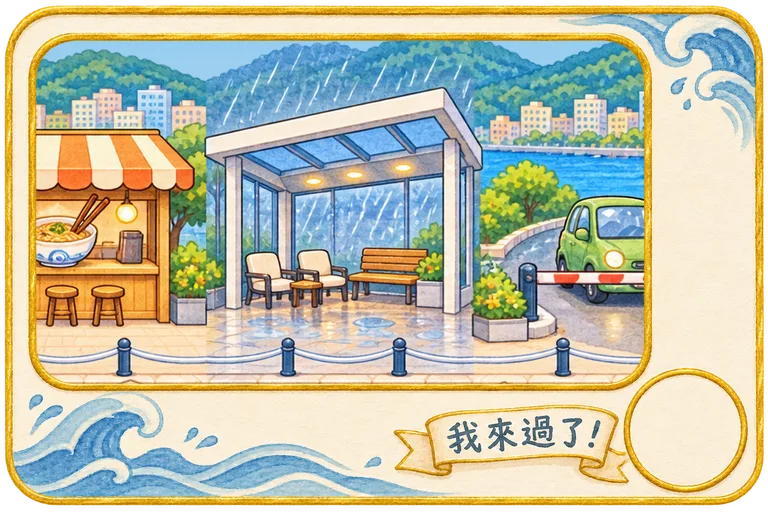
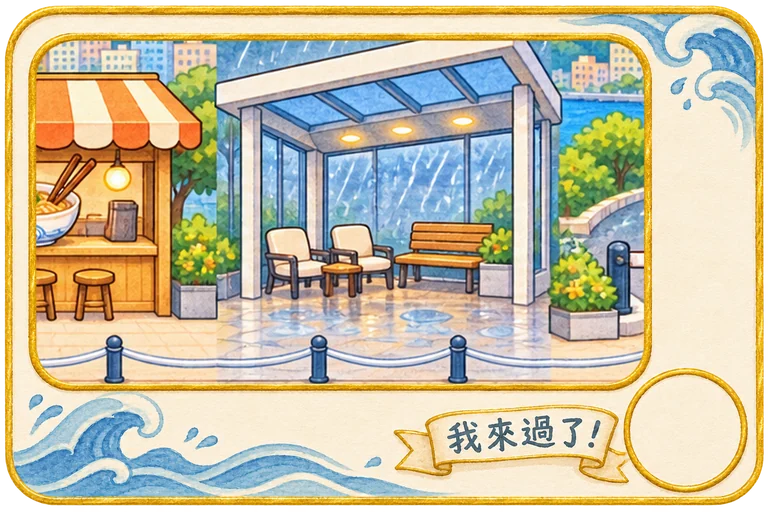
D364：現場版明信片逐站取景（站 2 以郵輪為主、不切半個小鳶／鯨鯊，站 1、4 也修掉邊上半隻朋友）；結果卡拿掉上方大章，明信片＋圈內章當唯一主視覺，章升級時圈內章也落一次（GPT 1252 短覆，stamp v2.7）
Claude-Session: https://claude.ai/code/session_011Y1JW5CcXbK48qR36wGPWu

diff --git a/stamp/index.html b/stamp/index.html
@@ -221,13 +221,15 @@ summary{font-weight:700;font-size:14px;cursor:pointer}
 .pano.all .pc{background:linear-gradient(90deg,#E8A33A,#C9473A);color:#fff}
 .sheet .panoBig{width:100%;aspect-ratio:3/1;display:block;margin:4px 0 10px;border-radius:8px;background:transparent}
 /* D363：現場版明信片（GPT 0200 明信片框 v2＋全景該站那段；右下圓圈蓋上這站的章） */
-.pcOn{position:relative;width:100%;max-width:340px;aspect-ratio:3/2;margin:6px auto 2px;transform:rotate(-2deg);filter:drop-shadow(0 6px 12px rgba(0,0,0,.22))}
+.pcOn{position:relative;width:100%;max-width:360px;aspect-ratio:3/2;margin:6px auto 2px;transform:rotate(-2deg);filter:drop-shadow(0 6px 12px rgba(0,0,0,.22))}
 .pcOn>img{width:100%;height:100%;display:block}
 .pcOn .st{position:absolute;left:82.7%;top:74.1%;width:13%;aspect-ratio:1}
 .pcOn.fly{animation:pcIn .6s .35s cubic-bezier(.3,1.4,.6,1) both}
 .pcOn.fly .st .stampv{animation:pslam .45s 1s cubic-bezier(.3,1.6,.6,1) both}
+/* D364（GPT 1252②）：結果卡拿掉上方大章，明信片＋圈內章當唯一主視覺；章升級時圈內章也落一次 */
+.pcOn.slam .st .stampv{animation:pslam .45s .2s cubic-bezier(.3,1.6,.6,1) both}
 @keyframes pcIn{from{opacity:0;transform:translateY(24px) rotate(4deg) scale(.9)}to{opacity:1;transform:rotate(-2deg)}}
-@media (prefers-reduced-motion:reduce){.pcOn.fly,.pcOn.fly .st .stampv{animation:none}}
+@media (prefers-reduced-motion:reduce){.pcOn.fly,.pcOn.fly .st .stampv,.pcOn.slam .st .stampv{animation:none}}
 .pcCap{margin:2px 0 6px;font-size:13px;color:#7A6A55;text-align:center}
 /* v0.18（C-127）：護照下面多一條「館內的港口朋友」，連到港口朋友頁 */
 .nextTip{margin:2px 0 0;padding:8px 12px;border-radius:12px;background:#EAF5FA;border:2px dashed #3F8FB8;font-size:14px;color:#1D4E66;text-align:center}.nextTip b{color:#1D6A88}
@@ -484,7 +486,7 @@ const SND_ICON = (() => {
 /* BGM-END */
 </script>
 <script>
-const CFG = { version: '2.6', showRec: false, key: 'kiteStamp1', rare: { gold: 0.1, rainbow: 0.02 }, nightFrom: 18, nightTo: 22 };      // v0.12：夜間 18:00–22:00（Dari 10/13 16:58，22:00 後閉店）；稀有機率仍是建議
+const CFG = { version: '2.7', showRec: false, key: 'kiteStamp1', rare: { gold: 0.1, rainbow: 0.02 }, nightFrom: 18, nightTo: 22 };      // v0.12：夜間 18:00–22:00（Dari 10/13 16:58，22:00 後閉店）；稀有機率仍是建議
 const FRAMES = [[53.3333, 40.4444], [25.0463, 46.1481], [18.9352, 75.4815], [44.4907, 86.7407], [75.9722, 77.4815], [80.5093, 56.037]], FRAME_R = 10.37;      // v0.8：G-50 港區小地圖六圈中心（%）；章容器 224px＝寬 20.74%（ChatGPT 地圖位置 JSON）
 const ROUTE = [[1, 2, [[[462.8, 559.4], [449.0, 561.0], [429.0, 568.0], [410.0, 578.0], [378.3, 588.2]]]], [2, 3, [[[330.7, 717.1], [339.0, 730.0], [337.8, 734.0]], [[294.0, 784.0], [285.0, 790.0], [301.0, 820.0], [313.0, 859.0], [313.0, 902.0], [299.0, 934.0], [287.3, 944.5]]]], [3, 4, [[[290.9, 1089.4], [315.0, 1109.0], [339.0, 1130.0], [360.0, 1145.0], [372.6, 1147.7]]]], [4, 5, [[[590.5, 1181.6], [615.0, 1184.0], [638.0, 1178.0], [662.0, 1171.0], [688.0, 1157.0], [709.0, 1138.0], [736.5, 1115.3]]]], [5, 6, [[[750.1, 963.3], [721.0, 929.0], [730.0, 903.0], [740.0, 879.0], [752.0, 857.0], [786.2, 827.8]]]], [6, 1, [[[797.0, 674.6], [784.0, 660.0], [760.0, 636.0], [742.0, 613.0], [718.0, 591.0], [700.0, 579.0], [686.0, 575.3]]]]];      // 每段 [起站, 終站, 可見路段（原圖像素）]；稱號帶的斷口不補線
 /* 6 個蓋章點（實際位置待 Dari 現勘）。color：每站主色（工作單 18）；title：蓋到就拿到的稱號（建議）；riddle：還沒去時的提示 */
@@ -721,9 +723,9 @@ function showStory(s, fresh, newTitles, extra, v) {
   /* D86（Dari 10/16）：同一次解鎖好幾個稱號時（例如蓋完第 6 章會一起拿到隱藏稱號），只放大第一個，其他收成一行，不再一張一張疊 */
   const isHid = (t) => COMBOS.some((c) => c.title === t) || t === SECRET.title;
   const got = newTitles.length ? '<div class="gotT"><div>🏅 <span>拿到稱號<br><b>' + newTitles[0] + '</b></span>' + (isHid(newTitles[0]) ? '<i>隱藏稱號</i>' : '') + '</div></div>' + (newTitles.length > 1 ? '<p class="again" style="margin-top:6px">還一起拿到 ' + (newTitles.length - 1) + ' 個稱號：<b>' + newTitles.slice(1).map((t) => t + (isHid(t) ? '（隱藏）' : '')).join('、') + '</b>（在護照「我的稱號」看）</p>' : '') : '';
-  $('sheet').innerHTML = '<div class="big">' + stampV(s, v) + '</div><h3>' + (fresh ? (extra ? '章升級了！' : '蓋到「' + s.name + '」章了！') : s.name + '章・' + s.title) + '</h3>' + (v ? '<p class="again vname">這是「' + VAR_NAME[v] + '」章</p>' : '') + (extra ? '<p class="again">' + extra + '</p>' : '') + got +
+  $('sheet').innerHTML = '<h3>' + (fresh ? (extra ? '章升級了！' : '蓋到「' + s.name + '」章了！') : s.name + '章・' + s.title) + '</h3>' + (v ? '<p class="again vname">這是「' + VAR_NAME[v] + '」章</p>' : '') + (extra ? '<p class="again">' + extra + '</p>' : '') + got +
     '<div class="say"><img src="../travel/assets/' + (fresh ? 'kite_happy' : 'kite_home') + '.png" alt=""><p>' + (fresh && s.say ? s.say : s.lines.join('<br>')) + '</p></div>' +
-    '<div class="pcOn' + (fresh && !extra && !REDUCE ? ' fly' : '') + '"><img src="assets/pc_onsite_' + s.id + '.webp" alt="' + s.name + '站現場版明信片"><span class="st">' + stampV(s, v) + '</span></div><p class="pcCap">' + (fresh && !extra ? '📮 拿到「' + s.name + '」現場版明信片！只有走到這裡蓋章才拿得到' : '📮 「' + s.name + '」現場版明信片') + '</p>' +      /* D363 */      // v1.3（G-61⑤）：剛蓋完只說一句，完整台詞留在重看
+    '<div class="pcOn' + (fresh && !extra && !REDUCE ? ' fly' : '') + (extra && !REDUCE ? ' slam' : '') + '"><img src="assets/pc_onsite_' + s.id + '.webp" alt="' + s.name + '站現場版明信片"><span class="st">' + stampV(s, v) + '</span></div><p class="pcCap">' + (fresh && !extra ? '📮 拿到「' + s.name + '」現場版明信片！只有走到這裡蓋章才拿得到' : '📮 「' + s.name + '」現場版明信片') + '</p>' +      /* D363 */      // v1.3（G-61⑤）：剛蓋完只說一句，完整台詞留在重看
     (s.rec && CFG.showRec ? '<div class="rec">' + s.rec + '</div>' : '') +
     (fresh && OBS[s.id] ? '<div class="obs' + ((P.found || {})[s.id] ? ' done' : '') + '" id="obs"><b>👀 一起找找看</b><p>' + ((P.found || {})[s.id] ? '一起找到了！' : OBS[s.id]) + '</p>' + ((P.found || {})[s.id] ? '' : '<div class="row"><button class="yes" type="button" id="obsYes">找到了！</button><button class="no" type="button" id="obsNo">略過</button></div>') + '</div>' : '') +
     '<p class="again">' + (n() < 6 ? '還差 ' + (6 - n()) + ' 個章' : '6 個都蓋好了！') + '</p>' + (fresh && nextSpot() ? '<div class="nextTip">🧭 下一站猜猜看：<b>' + nextSpot().riddle + '</b></div>' : '') + '<div class="ft"><button class="btn" type="button" id="ovOk">看護照</button></div>';      // v0.20（C-141）：蓋完章馬上給下一站的謎語，不用回護照找
